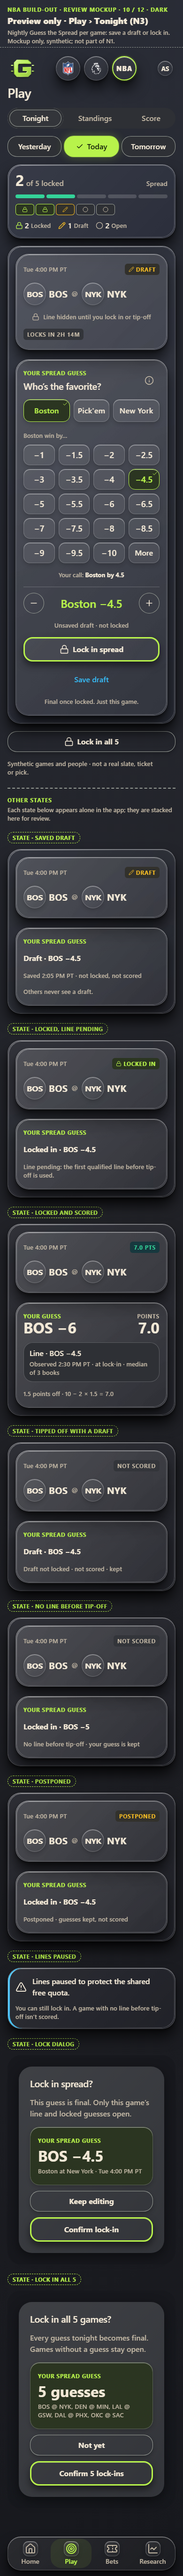
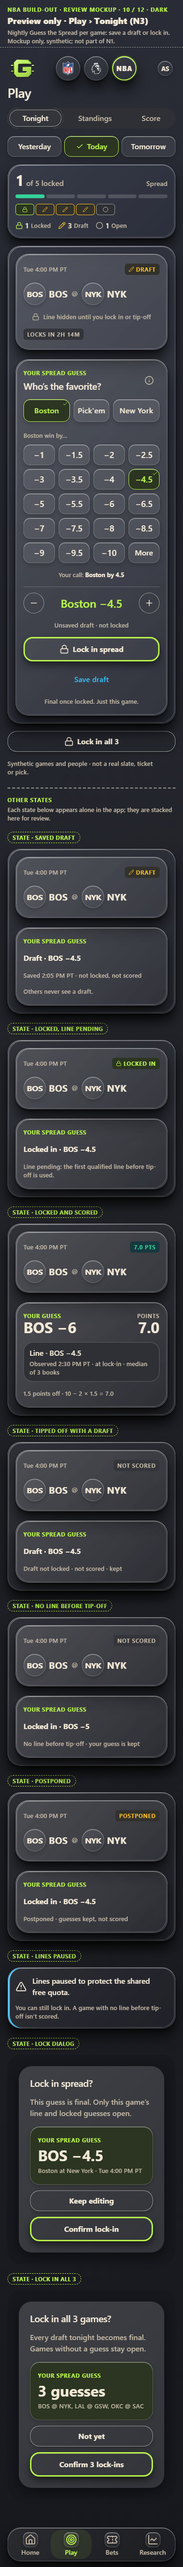
NBA mockups: Prism date-chip selection and a consistent lock-all count
Independent review of PR #529. Mockups 04 and 10 are re-captured at 320
and 390 px in Dark and Light with the same layout checks (all pass):

- Yesterday / Today / Tomorrow chips select with Prism's outline, tint
  and check, as the approved glass controls in prismPlay.css do, instead
  of the base solid lime fill.
- The Tonight preview shows 1 locked, 3 drafts and 1 open with
  "Lock in all 3"; it no longer offers to lock all 5 games while 2 were
  already locked.

README SHA-256 table and evidence.json regenerated from the captures;
the other 40 PNGs are byte-identical.

Changed region(s): [[0.0308, 0.0, 0.9538, 0.9664]]

diff --git a/design/nba-buildout-2026-11-10/README.md b/design/nba-buildout-2026-11-10/README.md
@@ -98,6 +98,15 @@ there (question 4). An early draft let the date chips scroll at 320 px and
 showed a header row clipped inside a bordered demo; both were fixed before
 these captures.
 
+Independent review corrections (executed; mockups 04 and 10 re-captured at both
+widths and themes with the same checks, all passing): the Yesterday / Today /
+Tomorrow date chips now select with Prism's outline, tint and check instead of
+a solid lime fill, matching the approved glass controls in
+`web/src/next/play/prismPlay.css`; and the Tonight preview now shows 1 locked,
+3 drafts and 1 open with "Lock in all 3", so the lock-all button and dialog
+count only unlocked drafts instead of offering to lock all 5 games when 2 were
+already locked.
+
 Physical-iPhone acceptance, real data, hosted behavior and Sean's approval are
 not claimed.
 
@@ -117,10 +126,10 @@ not claimed.
[14 lines of base64/hex data omitted]
@@ -141,10 +150,10 @@ not claimed.
[14 lines of base64/hex data omitted]
